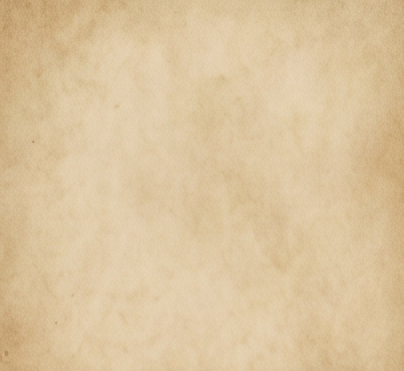
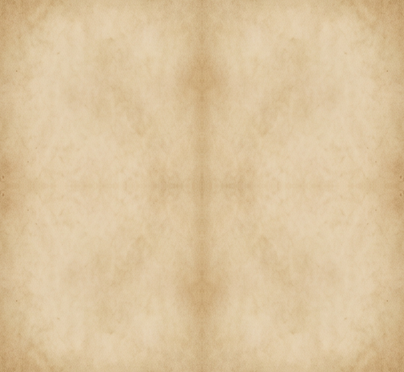
feat(frontend): Field-HQ roster — parchment checklist with the UNITS folder tab
Port the left-edge roster panel to the ratified kit (docs/UI-STYLE.md): a
seamless parchment data face under a dark-wood tab strip carrying the
brass-rimmed UNITS folder tab (NineSlice), ink Special Elite columns
aligned by fixed-x layout, amber/red status-lamp discs behind the idle and
warning marks (amber text alone sank into parchment), a brass-highlight
selected row, and a brass seam along the map edge. Flat fills at the same
geometry remain the pre-load fallback.

Pipeline: ui-kit-prep.py texture emits can now mirror-tile into 2x2 quads
at half scale — same file size, no more grid seams on panels taller than
one tile period (the roster exposed them). Parchment and wood are
mirrored; canvas stays a plain emit (its diagonal weave turns into
herringbone chevrons when mirrored, and the 140px dock strip never shows
a seam).

Claude-Session: https://claude.ai/code/session_01STpngTXZ2skJuYCR19tNxx

diff --git a/frontend/src/board/panels/RosterPanel.tsx b/frontend/src/board/panels/RosterPanel.tsx
@@ -1,82 +1,159 @@
 // The roster panel renderer (UI-SPEC §5): docked Pixi chrome on the left edge,
-// dense monospaced rows of type · (q,r) · order · HP, with unordered units sorted
-// to the top so "who still needs orders?" is impossible to miss. Row derivation
-// and hit-testing live in ./roster; this file is just the scene-graph drawing.
+// dense rows of type · (q,r) · order · HP, with unordered units sorted to the
+// top so "who still needs orders?" is impossible to miss. Drawn in the ratified
+// Field-HQ register (docs/UI-STYLE.md): a parchment data face under a dark-wood
+// tab strip carrying the UNITS folder tab, ink Special Elite columns aligned by
+// layout (each column its own Text at a fixed x — the data font is not
+// fixed-advance), and a brass seam along the map edge. Until the chrome sprites
+// arrive it falls back to flat fills at the same geometry, mirroring the dock.
+// Row derivation and hit-testing live in ./roster; this file is just the
+// scene-graph drawing.
 
 import type { Graphics } from "pixi.js";
 import { TextStyle } from "pixi.js";
 
 import type { Rect } from "@/board/layout";
+import { FONT_DATA, FONT_LABEL, THEME } from "@/theme/theme";
 
+import type { LoadedChrome } from "./chrome";
 import { ROW_HEIGHT, TAB_HEIGHT, type RosterRow } from "./roster";
 
 // --- column geometry ---
-const COL_MARKER = 7;
-const COL_TYPE = 17;
-const COL_COORD = 54;
-const COL_LABEL = 116;
-const PAD_RIGHT = 9;
+const COL_MARKER = 8;
+const COL_TYPE = 18;
+const COL_COORD = 56;
+const COL_LABEL = 118;
+const PAD_RIGHT = 12;
 
-// --- palette (UI-SPEC §14: charcoal panel, steel borders, warm off-white text) ---
-const PANEL_FILL = 0x14161c;
-const PANEL_BORDER = 0x3a3f4b;
-const ROW_SELECTED = 0x2a3550;
-const ROW_HOVER = 0x1e222c;
-const SELECT_OUTLINE = 0x8fb7ff;
-const TEXT_PRIMARY = 0xe8e4dc;
-const TEXT_SECONDARY = 0x9aa0a6;
-const MARK_IDLE = 0xf5b342;
-const MARK_ORDERED = 0x8fb7ff;
-const MARK_WARNING = 0xff6b6b;
+// --- tab-strip geometry (folder tab inset in the wood band) ---
+const TAB_X = 8;
+const TAB_W = 84;
+const TAB_PAD_TOP = 5;
+/** NineSlice inset covering the tab art's brass rim + rounded shoulders. */
+const TAB_SLICE = 26;
+/** Texture fills emit as 1x mirrored quads (seamless) — tile them unscaled. */
+const FACE_TILE_SCALE = 1.0;
+const WOOD_TILE_SCALE = 1.0;
 
-const style = (size: number, fill: number, weight: "normal" | "bold" = "normal") =>
-  new TextStyle({ fontFamily: "monospace", fontSize: size, fill, fontWeight: weight });
+const style = (family: string, size: number, fill: number) =>
+  new TextStyle({ fontFamily: family, fontSize: size, fill });
 
-const STYLE_TAB = style(12, TEXT_PRIMARY, "bold");
-const STYLE_TYPE = style(11, TEXT_PRIMARY, "bold");
-const STYLE_COORD = style(11, TEXT_SECONDARY);
-const STYLE_LABEL = style(11, TEXT_PRIMARY);
-const STYLE_IDLE_LABEL = style(11, MARK_IDLE);
-const STYLE_HP = style(11, TEXT_SECONDARY);
-const STYLE_WARN_LABEL = style(11, MARK_WARNING, "bold");
-const STYLE_MARK_IDLE = style(12, MARK_IDLE, "bold");
-const STYLE_MARK_ORDERED = style(11, MARK_ORDERED, "bold");
-const STYLE_MARK_WARNING = style(12, MARK_WARNING, "bold");
+const STYLE_TAB = new TextStyle({
+  fontFamily: FONT_LABEL,
+  fontSize: 12,
+  fill: THEME.ink900,
+  fontWeight: "bold",
+  letterSpacing: 1,
+});
+const STYLE_TYPE = style(FONT_DATA, 11, THEME.ink900);
+const STYLE_COORD = style(FONT_DATA, 11, THEME.canvas800);
+const STYLE_LABEL = style(FONT_DATA, 11, THEME.ink900);
+const STYLE_IDLE_LABEL = style(FONT_DATA, 11, THEME.canvas600);
+const STYLE_HP = style(FONT_DATA, 11, THEME.canvas800);
+const STYLE_WARN_LABEL = style(FONT_DATA, 11, THEME.invalid);
+// Idle/warning marks are status lamps: a small amber/red disc (drawn in
+// drawRowDecor) under a bold "!" — amber text alone sinks into parchment.
+const MARK_LAMP_R = 6;
+const STYLE_MARK_IDLE = new TextStyle({
+  fontFamily: FONT_LABEL,
+  fontSize: 11,
+  fill: THEME.ink900,
+  fontWeight: "bold",
+});
+const STYLE_MARK_ORDERED = style(FONT_DATA, 11, THEME.valid);
+const STYLE_MARK_WARNING = new TextStyle({
+  fontFamily: FONT_LABEL,
+  fontSize: 11,
+  fill: THEME.ivory100,
+  fontWeight: "bold",
+});
 
 export interface RosterPanelProps {
   rect: Rect;
   rows: RosterRow[];
   hoverIndex: number | null;
+  /** Field-HQ chrome sprites (null until loaded → flat placeholder look). */
+  chrome: LoadedChrome | null;
 }
 
 /** Docked left-edge roster, drawn into the Pixi scene graph. */
-export function RosterPanel({ rect, rows, hoverIndex }: RosterPanelProps) {
+export function RosterPanel({ rect, rows, hoverIndex, chrome }: RosterPanelProps) {
+  // Flat fills under the ink text until the sprites arrive (and the seams /
+  // washes that ride on top of them once they have).
   const drawChrome = (g: Graphics) => {
     g.clear();
-    g.rect(0, 0, rect.width, rect.height).fill({ color: PANEL_FILL });
-    g.moveTo(rect.width, 0).lineTo(rect.width, rect.height);
-    g.moveTo(0, TAB_HEIGHT).lineTo(rect.width, TAB_HEIGHT);
-    g.stroke({ width: 1, color: PANEL_BORDER });
+    if (chrome === null) {
+      g.rect(0, 0, rect.width, rect.height).fill({ color: THEME.parchment200 });
+      g.rect(0, 0, rect.width, TAB_HEIGHT).fill({ color: THEME.wood900 });
+    }
+    // Ink shadow where the face meets the tab strip, then the brass seam
+    // along the map edge (same weight as the dock's).
+    g.rect(0, TAB_HEIGHT, rect.width, 3).fill({ color: THEME.ink900, alpha: 0.18 });
+    g.rect(rect.width - 2, 0, 2, rect.height).fill({ color: THEME.brass600, alpha: 0.7 });
   };
 
-  const drawRowBackgrounds = (g: Graphics) => {
+  const drawRowDecor = (g: Graphics) => {
     g.clear();
     rows.forEach((row, i) => {
       const y = TAB_HEIGHT + i * ROW_HEIGHT;
       if (row.selected) {
-        g.rect(1, y, rect.width - 2, ROW_HEIGHT).fill({ color: ROW_SELECTED });
-        g.rect(1, y, rect.width - 2, ROW_HEIGHT).stroke({ width: 1, color: SELECT_OUTLINE });
+        g.rect(1, y, rect.width - 3, ROW_HEIGHT).fill({ color: THEME.brass400, alpha: 0.35 });
+        g.rect(1, y, rect.width - 3, ROW_HEIGHT).stroke({ width: 1, color: THEME.brass600 });
       } else if (i === hoverIndex) {
-        g.rect(1, y, rect.width - 2, ROW_HEIGHT).fill({ color: ROW_HOVER });
+        g.rect(1, y, rect.width - 3, ROW_HEIGHT).fill({ color: THEME.ink900, alpha: 0.07 });
+      }
+      if (row.warning || row.idle) {
+        const cy = y + ROW_HEIGHT / 2;
+        g.circle(COL_MARKER, cy, MARK_LAMP_R).fill({
+          color: row.warning ? THEME.invalid : THEME.warning,
+        });
+        g.circle(COL_MARKER, cy, MARK_LAMP_R).stroke({
+          width: 1,
+          color: THEME.ink900,
+          alpha: 0.5,
+        });
       }
     });
   };
 
   return (
     <pixiContainer x={rect.x} y={rect.y}>
+      {chrome !== null && (
+        <>
+          <pixiTilingSprite
+            texture={chrome.parchment}
+            width={rect.width}
+            height={rect.height}
+            tileScale={{ x: FACE_TILE_SCALE, y: FACE_TILE_SCALE }}
+          />
+          <pixiTilingSprite
+            texture={chrome.wood}
+            width={rect.width}
+            height={TAB_HEIGHT}
+            tileScale={{ x: WOOD_TILE_SCALE, y: WOOD_TILE_SCALE }}
+          />
+          <pixiNineSliceSprite
+            texture={chrome.tabActive}
+            x={TAB_X}
+            y={TAB_PAD_TOP}
+            width={TAB_W}
+            height={TAB_HEIGHT - TAB_PAD_TOP}
+            leftWidth={TAB_SLICE}
+            rightWidth={TAB_SLICE}
+            topHeight={TAB_SLICE}
+            bottomHeight={TAB_SLICE}
+          />
+        </>
+      )}
       <pixiGraphics draw={drawChrome} />
-      <pixiText text="UNITS" style={STYLE_TAB} x={9} y={7} />
-      <pixiGraphics draw={drawRowBackgrounds} />
+      <pixiText
+        text="UNITS"
+        style={STYLE_TAB}
+        anchor={{ x: 0.5, y: 0.5 }}
+        x={TAB_X + TAB_W / 2}
+        y={TAB_PAD_TOP + (TAB_HEIGHT - TAB_PAD_TOP) / 2}
+      />
+      <pixiGraphics draw={drawRowDecor} />
       {rows.map((row, i) => (
         <RosterRowView
           key={row.unit.id}
@@ -100,7 +177,7 @@ function RosterRowView({
   rectWidth: number;
 }) {
   const cy = y + ROW_HEIGHT / 2;
-  const markText = row.warning ? "⚠" : row.idle ? "!" : "✓";
+  const markText = row.warning || row.idle ? "!" : "✓";
   const markStyle = row.warning
     ? STYLE_MARK_WARNING
     : row.idle

diff --git a/frontend/src/board/panels/chrome.ts b/frontend/src/board/panels/chrome.ts
@@ -31,6 +31,10 @@ export interface LoadedChrome {
   /** Thin wood-and-brass card frame for the dock's inset card (NineSlice;
    *  center is hollowed so the parchment fill tiles beneath it). */
   readonly frameDock: Texture;
+  /** Tileable dark wood fill (header bar, tab strips). */
+  readonly wood: Texture;
+  /** Active folder tab: parchment face in a brass rim (NineSlice). */
+  readonly tabActive: Texture;
 }
 
 function url(name: string): string {
@@ -41,12 +45,12 @@ function url(name: string): string {
 }
 
 /**
- * Load the chrome sprite set for the selected-unit dock pilot. Rejects if any
+ * Load the chrome sprite set for the Field-HQ panels. Rejects if any
  * sprite fails: callers keep the flat placeholder chrome and log, mirroring
  * the terrain/unit texture loaders (degrade whole, never mixed).
  */
 export async function loadChromeTextures(): Promise<LoadedChrome> {
-  const [up, hover, pressed, disabled, active, well, plate, canvas, parchment, frameDock] =
+  const [up, hover, pressed, disabled, active, well, plate, canvas, parchment, frameDock, wood, tabActive] =
     await Promise.all([
       Assets.load<Texture>(url("btn-up")),
       Assets.load<Texture>(url("btn-hover")),
@@ -58,6 +62,17 @@ export async function loadChromeTextures(): Promise<LoadedChrome> {
       Assets.load<Texture>(url("canvas")),
       Assets.load<Texture>(url("parchment")),
       Assets.load<Texture>(url("frame-dock")),
+      Assets.load<Texture>(url("wood")),
+      Assets.load<Texture>(url("tab-active")),
     ]);
-  return { btn: { up, hover, pressed, disabled, active }, well, plate, canvas, parchment, frameDock };
+  return {
+    btn: { up, hover, pressed, disabled, active },
+    well,
+    plate,
+    canvas,
+    parchment,
+    frameDock,
+    wood,
+    tabActive,
+  };
 }

diff --git a/frontend/src/board/Board.tsx b/frontend/src/board/Board.tsx
@@ -1524,7 +1524,12 @@ export function Board({ state, yourSlot, visible, planning, locked = false, advi
           </pixiContainer>
           {showPanels && layout !== null && (
             <>
-              <RosterPanel rect={layout.roster} rows={rows} hoverIndex={rosterHover} />
+              <RosterPanel
+                rect={layout.roster}
+                rows={rows}
+                hoverIndex={rosterHover}
+                chrome={chromeTex}
+              />
               {planning !== undefined && (
                 <InspectorPanel
                   rect={layout.inspector}

diff --git a/frontend/src/board/panels/roster.ts b/frontend/src/board/panels/roster.ts
@@ -8,8 +8,9 @@ import type { PlanningController, StagedOrder } from "@/planning/usePlanning";
 
 type Unit = components["schemas"]["Unit"];
 
-/** Row geometry shared by the renderer and hit-testing. */
-export const TAB_HEIGHT = 28;
+/** Row geometry shared by the renderer and hit-testing. The tab strip is tall
+ *  enough for the Field-HQ folder-tab art (UI-STYLE §4). */
+export const TAB_HEIGHT = 34;
 export const ROW_HEIGHT = 20;
 
 export const TYPE_LABEL: Record<Unit["type"], string> = {

diff --git a/frontend/src/board/panels/SelectedUnitPanel.tsx b/frontend/src/board/panels/SelectedUnitPanel.tsx
@@ -133,8 +133,8 @@ const WELL_SLICE = 22;
 const PLATE_SLICE_X = 24;
 const PLATE_SLICE_Y = 12;
 const FRAME_SLICE = 22;
-/** Parchment tiles at 2x (hidpi-crisp), matching the emit convention. */
-const PARCHMENT_TILE_SCALE = 0.5;
+/** Texture fills emit as 1x mirrored quads (seamless) — tile them unscaled. */
+const PARCHMENT_TILE_SCALE = 1.0;
 /** The brass face's center within the button sprite (fraction of its size). */
 const BTN_FACE_CX = 0.5;
 const BTN_FACE_CY = 0.44;

diff --git a/scripts/ui-kit-prep.py b/scripts/ui-kit-prep.py
@@ -33,6 +33,10 @@ class Emit(NamedTuple):
     # keeps its rails/brackets plus a feathered ring of its baked face, and the
     # fill shows through the middle. 0 = solid emit.
     hollow: int = 0
+    # Mirror-tile the emit into a 2x2 flip-book so a TilingSprite repeats it
+    # seamlessly — the raw cuts have vignetted edges that read as grid seams on
+    # any panel taller/wider than one period (the roster showed them).
+    mirror: bool = False
 
 
 # On-screen targets (1x): order buttons ~64px, the portrait well ~130px,
@@ -55,9 +59,15 @@ EMITS: dict[str, Emit] = {
     # emit scale is what sets the on-screen border weight.
     "well": Emit("inset-well", 0.25),
     "plate": Emit("nameplate", 0.25),
+    # Parchment/wood emit at half scale *then* mirror: same pixel count (and
+    # file size) as a plain 2x emit, seamless, rendered at tileScale 1.0. A 1x
+    # density is fine for these low-contrast fills; 2x-and-mirrored would
+    # quadruple the bundle for no visible gain. Canvas stays a plain emit — its
+    # diagonal weave turns into herringbone chevrons when mirrored, and the
+    # 140px dock strip is shorter than one tile period so seams never show.
     "canvas": Emit("tex-canvas", 1.00),
-    "parchment": Emit("tex-parchment", 1.00),
-    "wood": Emit("tex-wood", 1.00),
+    "parchment": Emit("tex-parchment", 0.50, mirror=True),
+    "wood": Emit("tex-wood", 0.50, mirror=True),
     "frame": Emit("panel-frame", 0.50),
     # The selected-unit dock's inset card (docs/UI-STYLE.md §4): the same
     # ratified frame, emitted thin enough that its ~94px source rail lands at
@@ -101,6 +111,13 @@ def main(argv: list[str] | None = None) -> int:
                 max(1, round(img.height * emit.scale)),
             )
             img = img.resize(size, Image.LANCZOS)
+        if emit.mirror:
+            quad = Image.new("RGBA", (img.width * 2, img.height * 2))
+            quad.paste(img, (0, 0))
+            quad.paste(img.transpose(Image.FLIP_LEFT_RIGHT), (img.width, 0))
+            quad.paste(img.transpose(Image.FLIP_TOP_BOTTOM), (0, img.height))
+            quad.paste(img.transpose(Image.ROTATE_180), (img.width, img.height))
+            img = quad
         out = args.out_dir / f"{name}.png"
         img.save(out, optimize=True)
         print(f"{name:<18}{emit.source:<22}x{emit.scale:<6}{img.size}")
